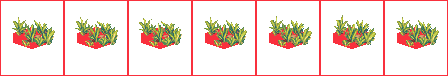
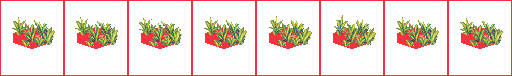
Added a final waving grass animation for the first grass clump.

Changed region(s): [[0.0, 0.0, 1.0, 1.0]]

diff --git a/src/game/core/data/Image_Data/Tile_Image_Data.ts b/src/game/core/data/Image_Data/Tile_Image_Data.ts
@@ -459,13 +459,14 @@ export const Tile_Image_Data = {
 	"scrub_dirt_tall1c": {
 		url: "bushes2.png",
 		bounds: {
-			x: 1,
+			x: 513,
 			y: 1,
 			w: 62,
 			h: 74,
 		},
-		frames: 1,
-		frame_duration: 400,
+		frames: 2,
+		frame_duration: 450,
+		ping_pong: true,
 		pad: 2,
 	},
 		
